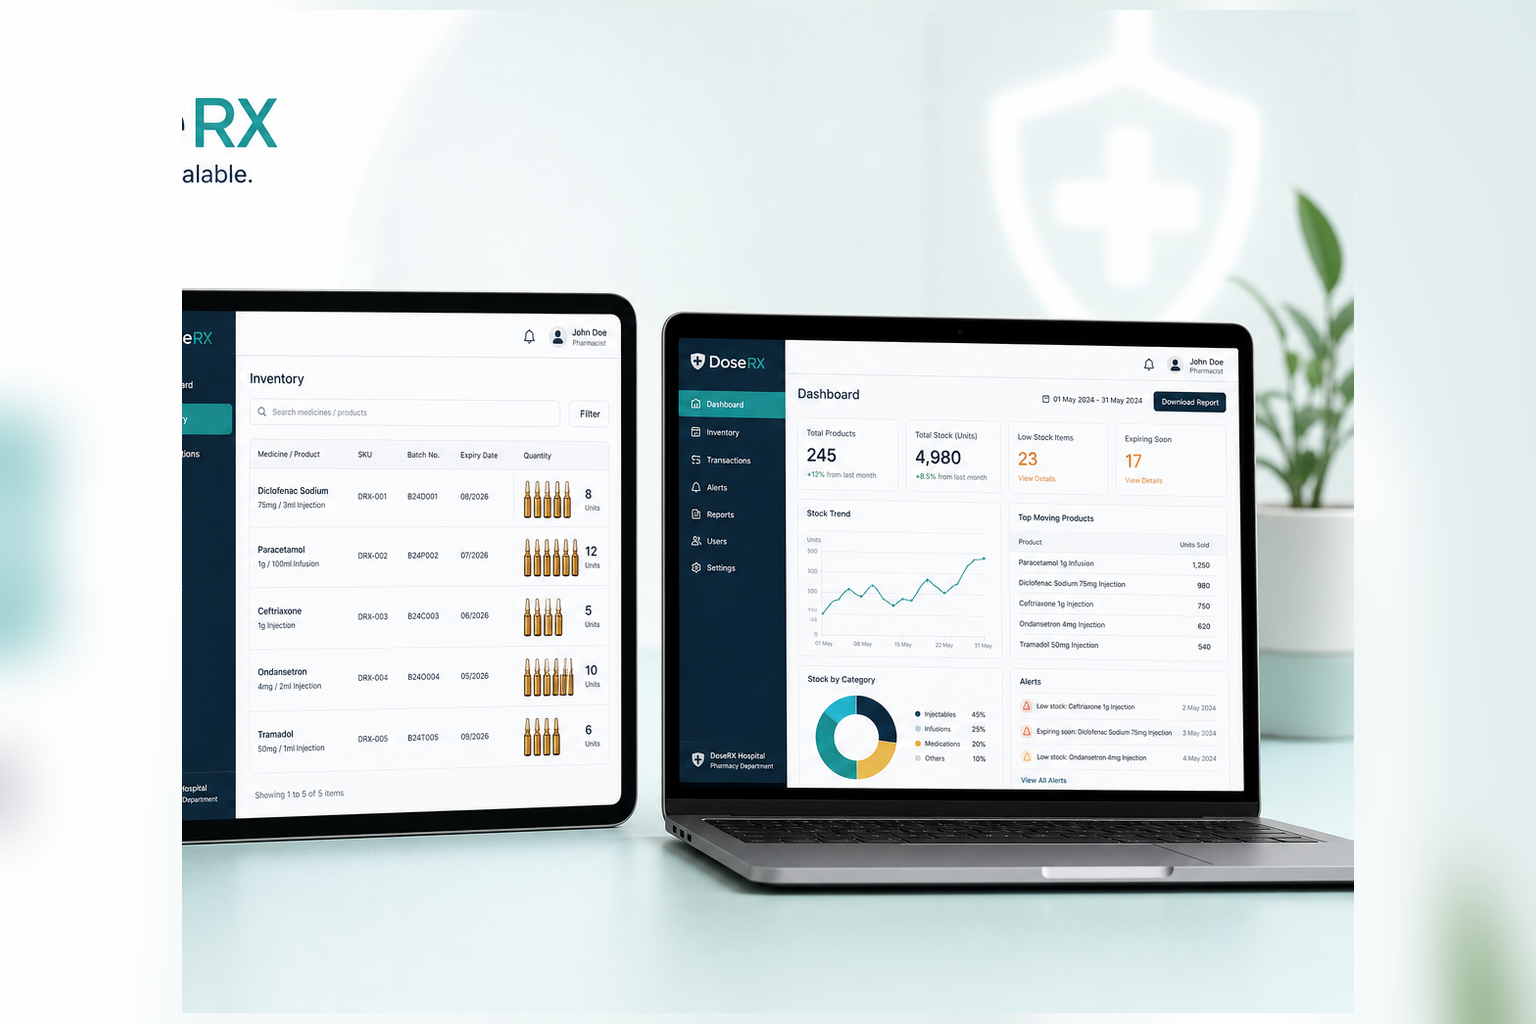
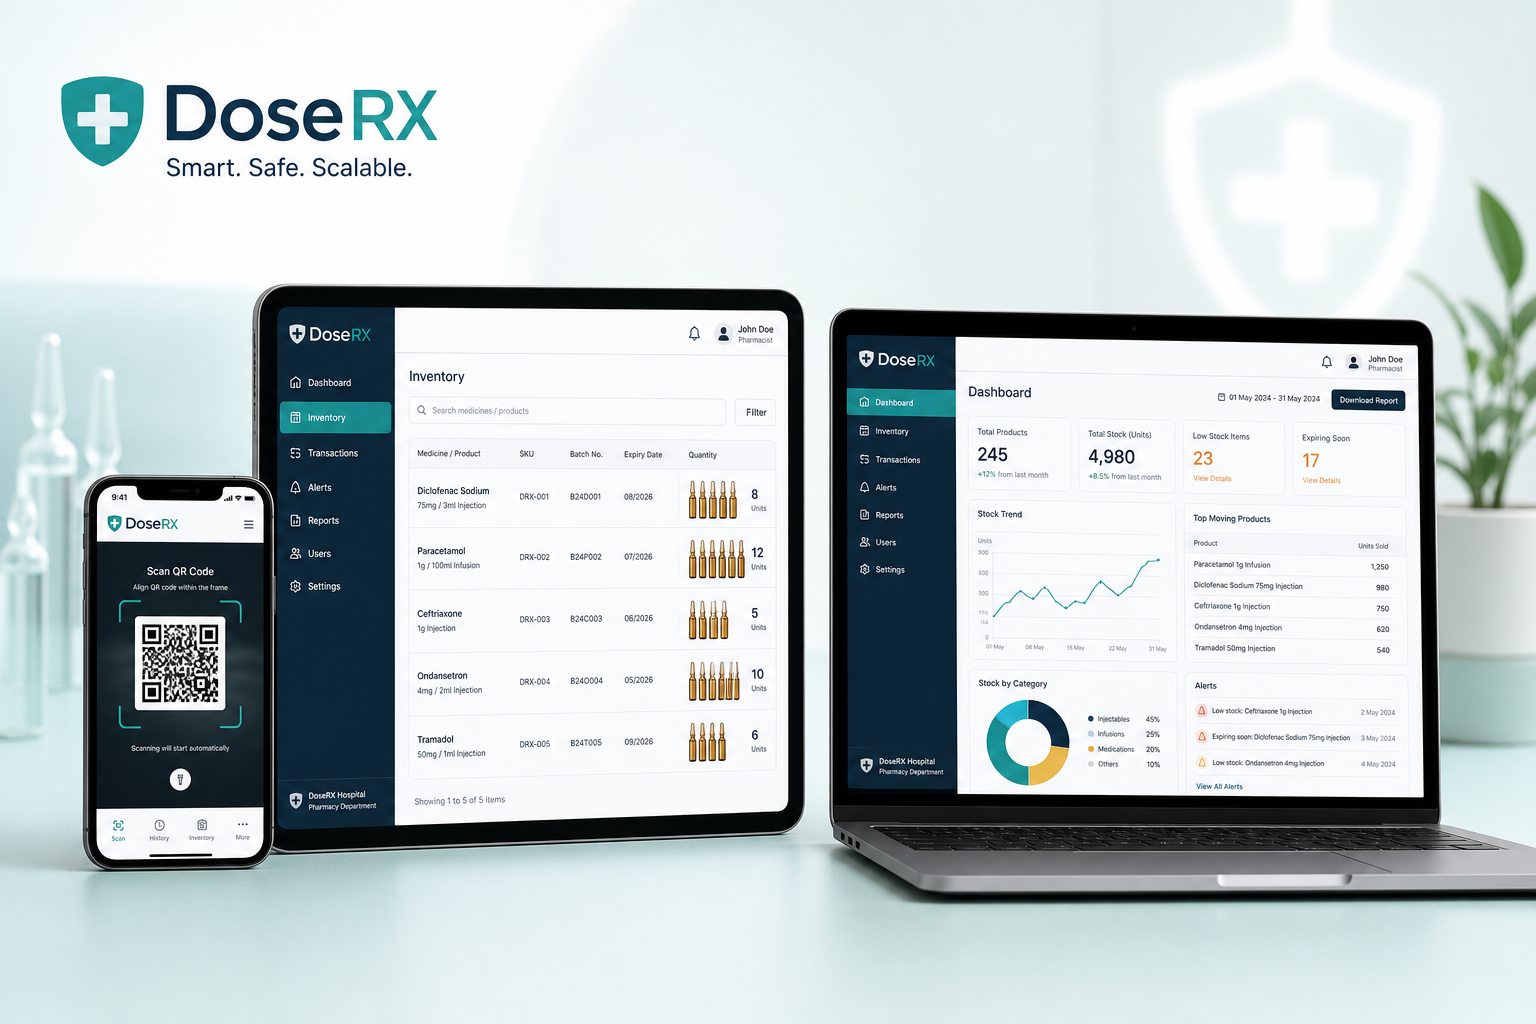
Restore the original devices collage with the phone.
The previous crop removed the older phone that sat behind the temporary Shift actions composite.

diff --git a/index.html b/index.html
@@ -228,7 +228,7 @@
       <figure class="shot shot-wide reveal">
         <img
           src="assets/doserx-leaflet-devices.png"
-          alt="DoseRX across tablet and laptop"
+          alt="DoseRX across phone, tablet, and laptop"
           width="1536"
           height="1024"
           loading="lazy"
